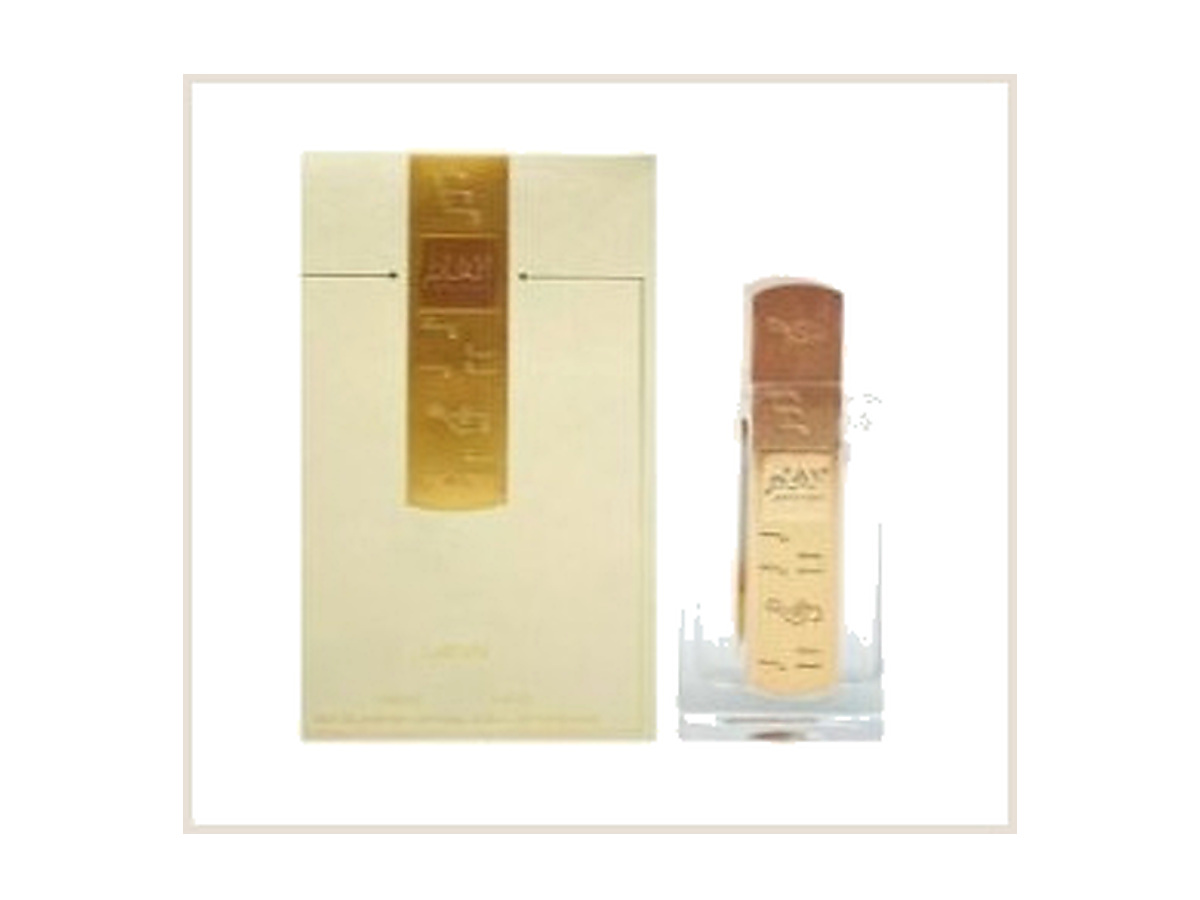
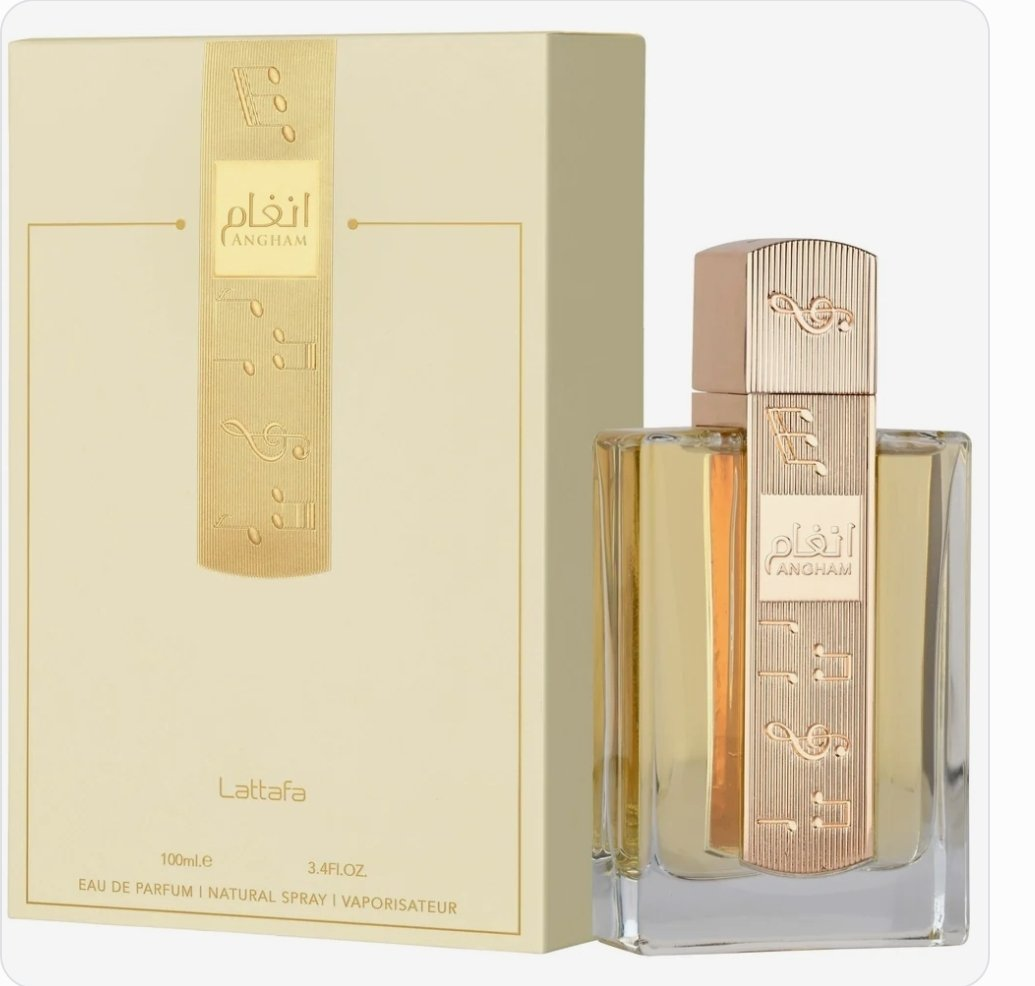
Replace Lattafa Angham photos with Boss's new shots

diff --git a/index.html b/index.html
@@ -701,7 +701,7 @@
         { name:'Armaf Odyssey Mega Cologne for Men', niche:'Armaf · Men · 3.4 oz EDP', direction:'Citrus, ginger and aromatic woods', description:'Zesty citrus and ginger create a brisk opening before aromatic herbs and clean woods take over. Modern, bright and made for everyday momentum.', category:'fresh', images:[{src:'assets/product-armaf-odyssey-mega.jpg', alt:'Armaf Odyssey Mega bottle and yellow box — clean packshot'}], price:31, decantPrice:8, originalPrice:38, featured:10 , paymentLink:'https://buy.stripe.com/eVqdRb0Ip7o0e4q7Kzf7i0Z'},
         { name:'Lattafa Maison Alhambra Delilah Perfume for Women', niche:'Maison Alhambra · Women · 3.4 oz EDP', direction:'Rose, tart fruit and soft vanilla musk', description:'Tart fruit brightens a romantic rose heart, while vanilla and musk soften the finish. Airy, graceful and quietly sweet.', category:'fresh', images:[{src:'assets/product-maison-alhambra-delilah.jpg', alt:'Maison Alhambra Delilah bottle and pink box — clean packshot'}], price:28, decantPrice:7, originalPrice:34, featured:11 , paymentLink:'https://buy.stripe.com/dRmeVf8aR8s43pM8ODf7i1c'},
         { name:'Barakkat Satin Oud Perfume for Unisex', niche:'Barakkat · Unisex · 3.4 oz EDP', direction:'Velvety rose, oud and vanilla amber', description:'Velvety rose meets dark oud and a warm vanilla-amber base. Opulent and smooth, with the kind of depth that suits evenings and special occasions.', category:'woody', images:[{src:'assets/product-barakkat-satin-oud.jpg', alt:'Barakkat Satin Oud bottle and decorative box — clean packshot'}], price:22, decantPrice:6, originalPrice:27, featured:12 , paymentLink:'https://buy.stripe.com/7sY14pfDjeQs7G2c0Pf7i1f'},
-        { name:'Lattafa Angham Perfume for Unisex', niche:'Lattafa · Unisex · 3.4 oz EDP', direction:'Spiced vanilla, praline and tonka', description:'A warm gourmand profile built around sweet spice, creamy vanilla and nutty praline. Cozy and expressive, with a smooth tonka-rich finish.', category:'sweet', images:[{src:'assets/product-lattafa-angham.jpg', alt:'Lattafa Angham bottle and box — clean packshot'}], price:34, decantPrice:9, originalPrice:40, featured:13 , paymentLink:'https://buy.stripe.com/6oUfZjgHncIk5xUgh5f7i1e'},
+        { name:'Lattafa Angham Perfume for Unisex', niche:'Lattafa · Unisex · 3.4 oz EDP', direction:'Spiced vanilla, praline and tonka', description:'A warm gourmand profile built around sweet spice, creamy vanilla and nutty praline. Cozy and expressive, with a smooth tonka-rich finish.', category:'sweet', images:[{src:'assets/product-lattafa-angham.jpg', alt:'Lattafa Angham bottle and box on a clean white background'},{src:'assets/product-lattafa-angham-2.jpg', alt:'Lattafa Angham bottle on a clean white background'},{src:'assets/product-lattafa-angham-3.jpg', alt:'Lattafa Angham bottle in warm sunlight'}], price:34, decantPrice:9, originalPrice:40, featured:13 , paymentLink:'https://buy.stripe.com/6oUfZjgHncIk5xUgh5f7i1e'},
         { name:'Lattafa Her Confession Perfume for Women', niche:'Lattafa · Women · 3.4 oz EDP', direction:'White florals, spice and creamy vanilla', description:'Luminous white florals are wrapped in gentle spice, creamy vanilla and soft woods. Elegant and sensual, with warmth that lingers close to the skin.', category:'amber', images:[{src:'assets/product-lattafa-her-confession.jpg', alt:'Lattafa Her Confession bust bottle in a styled classical composition'},{src:'assets/product-lattafa-her-confession-2.jpg', alt:'Lattafa Her Confession bust bottle on a clean white background'}], price:42, decantPrice:11, originalPrice:48, featured:14 , paymentLink:'https://buy.stripe.com/28E4gB4YF37Ke4q1mbf7i0L'},
         { name:'Lattafa Fakhar Cologne for Men', niche:'Lattafa · Men · 3.4 oz EDP', direction:'Fresh apple, aromatics and smooth woods', description:'Crisp fruit and bright aromatics open cleanly before settling into smooth woods and tonka warmth. Versatile, polished and easy to reach for.', category:'fresh', images:[{src:'assets/product-lattafa-fakhar.jpg', alt:'Lattafa Fakhar black and silver bottle on a clean white background'},{src:'assets/product-lattafa-fakhar-2.jpg', alt:'Lattafa Fakhar black and silver bottle, front view'}], price:28, decantPrice:7, originalPrice:34, featured:15 , paymentLink:'https://buy.stripe.com/4gM4gBcr74bObWi5Crf7i1g'},
         { name:'Afnan 9PM Cologne for Men', niche:'Afnan · Men · 3.4 oz EDP', direction:'Apple, cinnamon and amber vanilla', description:'Sweet apple and cinnamon lift an aromatic heart, then give way to a warm amber-vanilla base. Bold, youthful and built for nights out.', category:'sweet', images:[{src:'assets/product-afnan-9pm.jpg', alt:'Afnan 9PM bottle and black box on a clean white background'},{src:'assets/product-afnan-9pm-2.jpg', alt:'Afnan 9PM bottle on a clean white background'},{src:'assets/product-afnan-9pm-3.jpg', alt:'Afnan 9PM bottle in a styled ice composition'}], price:32, decantPrice:8, originalPrice:40, featured:16 , paymentLink:'https://buy.stripe.com/8x2bJ3fDjgYA8K6aWLf7i17'},
